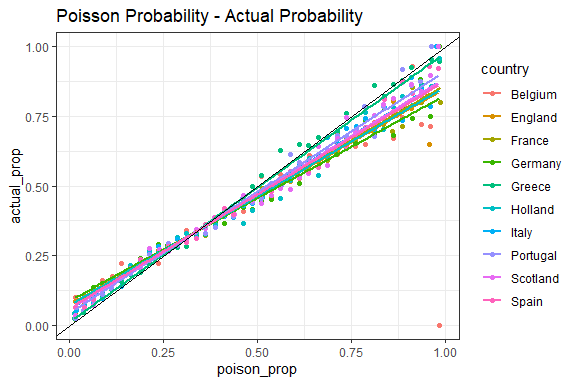
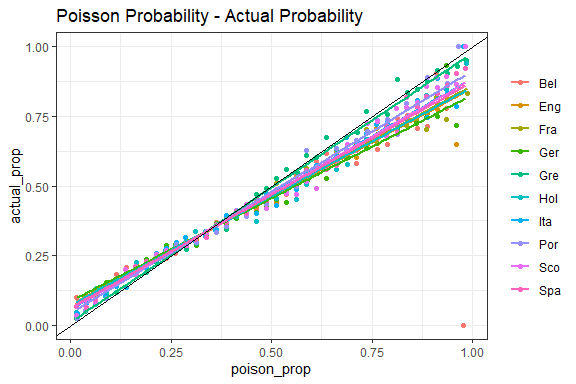
rate_max iter

diff --git a/poisson-model.md b/poisson-model.md
@@ -1,6 +1,6 @@
 Poisson Model
 ================
-Thanos L.
+Thanos Livanis
 2024-07-28
 
 A study of the Basic Poisson Model (BPM) in Football: [M. J. Maher -
@@ -293,7 +293,7 @@ apply_poisson <- function(league_season, min_round = 10, rate = 0) {
 log_lik <- function(rate) {
   
   main_leagues %>% 
-    filter(Season == 2000) %>%
+    filter(Season %in% c(1995, 2005, 2015)) %>%
     group_split(country, Season) %>%
     map_dfr(apply_poisson, rate = rate) %>%
     mutate(p = case_when(
@@ -303,17 +303,21 @@ log_lik <- function(rate) {
     )) %>% 
     pull(p) %>%
     log10() %>%
-    sum()
+    sum(na.rm = T)
 }
 
 mle <- 
-  data.frame(rate = seq(0, 0.1, 0.01)) %>% 
+  data.frame(rate = seq(0, 0.1, 0.005)) %>% 
   mutate(lik = map_dbl(rate, log_lik))
+
+rate_max <- mle$rate[which.max(mle$lik)]
+
+#optim(0.04, fn = log_lik, method = "L-BFGS-B", lower = 0, upper = 0.1)
 
 ggplot(mle, aes(x = rate, y = lik)) + 
   geom_point(size = 2) + geom_smooth(method = "lm", formula = y ~ poly(x,2), color = "lightblue") +
-  geom_vline(xintercept = mle$rate[which.max(mle$lik)], linetype = "dashed", color = "orange") +
-  scale_x_continuous(breaks= sort(c(seq(0, 0.1, 0.02), mle$rate[which.max(mle$lik)]))) +
+  geom_vline(xintercept = rate_max, linetype = "dashed", color = "orange") +
+  scale_x_continuous(breaks= sort(c(seq(0, 0.1, 0.02), rate_max))) +
   theme_bw()
 ```
 
@@ -322,7 +326,7 @@ ggplot(mle, aes(x = rate, y = lik)) +
 ``` r
 props <- main_leagues %>% 
   group_split(country, Season) %>%
-  map_dfr(apply_poisson, rate = 0) %>%
+  map_dfr(apply_poisson, rate = rate_max) %>%
   drop_na(hgoal_exp)
 ```
 
@@ -398,9 +402,7 @@ remove_overround <- function(bookmaker_odds) {
                 error = function(e) { warning(conditionMessage(e)); NA })
   
   fair_props <- overround_props^(1/k) %>% {./sum(.)}
-  
-  return (fair_props)
-}
+  }
 
 fair_probabilities <- function(df) {
   
@@ -455,11 +457,12 @@ props %>%
               summarize(RPS = mean(RPS), .by = country) %>%
               mutate(model = "odds")) %>%
   mutate(model = factor(model, levels = c("odds", "poisson", "null"))) %>%
-  ggplot(aes(x = country, y = RPS, fill = model)) +
+  ggplot(aes(x = substr(country, 1, 3), y = RPS, fill = model)) +
   geom_bar(stat = "identity", position = "dodge") +
   scale_fill_brewer(palette = "Set2") +
   coord_cartesian(ylim = c(0.15, 0.23)) +
-  theme_bw()
+  theme_bw() +
+  labs(x = NULL)
 ```
 
 <img src="poisson-model_files/figure-gfm/rps_plot-1.png" style="display: block; margin: auto;" />
@@ -468,8 +471,8 @@ props %>%
 
 ``` r
 # poisson - actual probability
-prop_table_poisson <- props %>%
-  select(country, result, PPH, PPD, PPA) %>% na.omit() %>% 
+props %>%
+  select(country, result, PPH, PPD, PPA) %>% 
   setNames(c("country", "result", "H", "D", "A")) %>%
   pivot_longer(cols = c(H, D, A), names_to = "selection", values_to = "pois_prop") %>% 
   mutate(evaluation = (result == selection), 
@@ -477,11 +480,11 @@ prop_table_poisson <- props %>%
   group_by(country, pp_int) %>%
   summarise(obs = n(), 
             poison_prop = mean(pois_prop),
-            actual_prop = mean(evaluation), .groups = "drop")
-
-ggplot(prop_table_poisson, aes(x = poison_prop, y = actual_prop, color = country)) +
+            actual_prop = mean(evaluation), .groups = "drop") %>%
+  ggplot(aes(x = poison_prop, y = actual_prop, color = substr(country, 1, 3))) +
   geom_point() + geom_smooth(method = "lm", formula = y ~ x, se = F, mapping = aes(weight = obs)) + 
   geom_abline(slope = 1, intercept = 0) + theme_bw() +
+  guides(color = guide_legend(title = NULL)) +
   ggtitle("Poisson Probability - Actual Probability")
 ```
 
